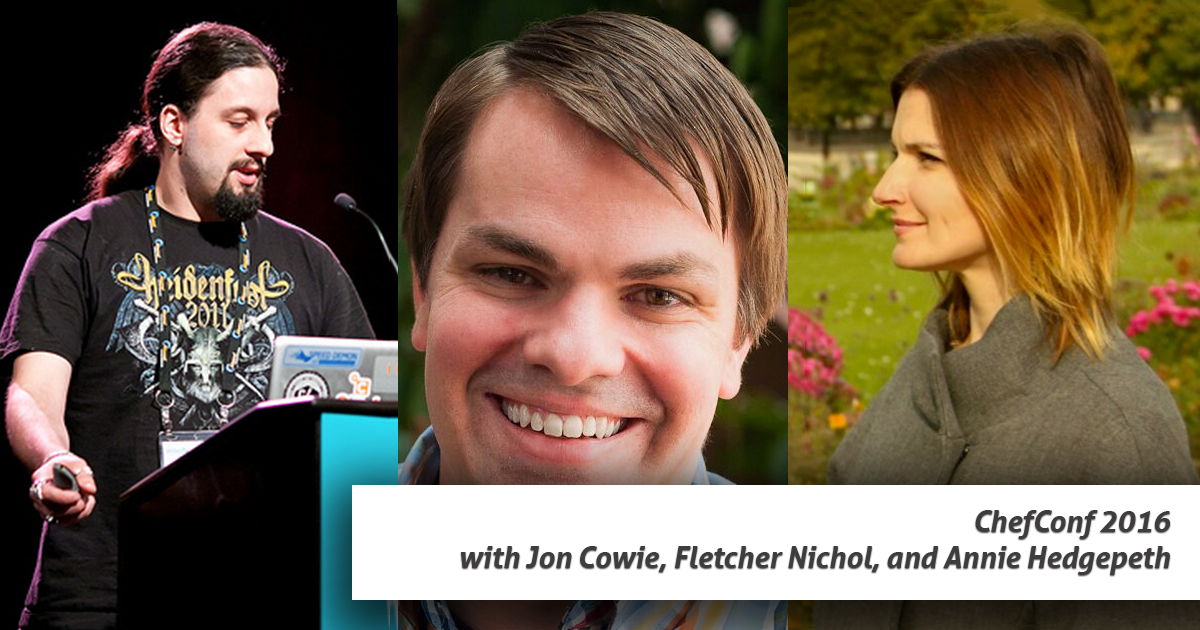
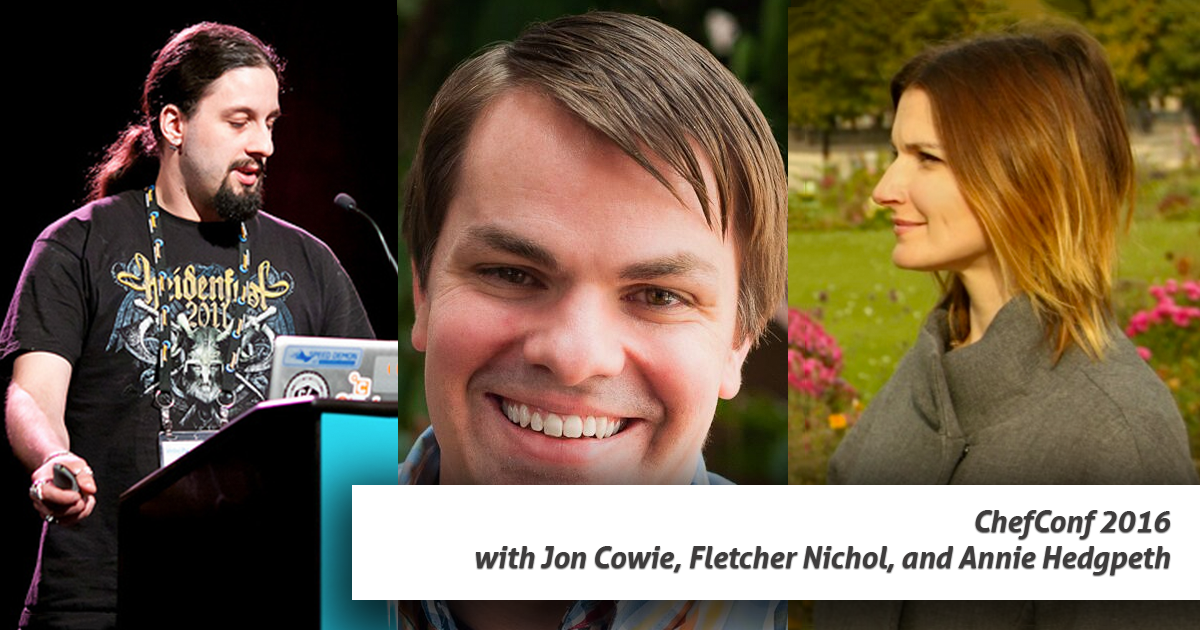
Fix misspelling of Annie’s name :(

Changed region(s): [[0.37, 0.8444, 0.925, 0.9349]]

diff --git a/content/episode/chefconf-2016.md b/content/episode/chefconf-2016.md
@@ -1,19 +1,19 @@
 +++
-Description = "Recorded at ChefConf 2016 in Austin, Texas, with delightful guests Annie Hedgepeth, Fletcher Nichol, and Jon Cowie. We talk about all the new hotness of Habitat and Chef Automate, as well as cover the experiences of five years span of ChefConf attendee experience. Plus, Trevor throws shade at 'DevOps 2.0'."
+Description = "Recorded at ChefConf 2016 in Austin, Texas, with delightful guests Annie Hedgpeth, Fletcher Nichol, and Jon Cowie. We talk about all the new hotness of Habitat and Chef Automate, as well as cover the experiences of five years span of ChefConf attendee experience. Plus, Trevor throws shade at 'DevOps 2.0'."
 aliases = ["/67"]
 author = "Matt"
 categories = []
 date = "2016-07-26T20:55:48-05:00"
 episode = "67"
 friendly = "chefconf-2016"
-guests = ["ahedgepeth", "fnichol", "jcowie"]
+guests = ["ahedgpeth", "fnichol", "jcowie"]
 images = ["http://arresteddevops.com/img/social/fb/chefconf-2016.png"]
 news_keywords = []
 podcast = "https://media.blubrry.com/arresteddevops/content.blubrry.com/arresteddevops/arrested-devops-podcast-episode067.mp3"
 podcast_duration = "52:43"
 sponsors = []
 tags = []
-title = "ChefConf 2016 with Jon Cowie, Fletcher Nichol, and Annie Hedgepeth"
+title = "ChefConf 2016 with Jon Cowie, Fletcher Nichol, and Annie Hedgpeth"
 youtube = "U7i4JE4Zk7w"
 
 +++
